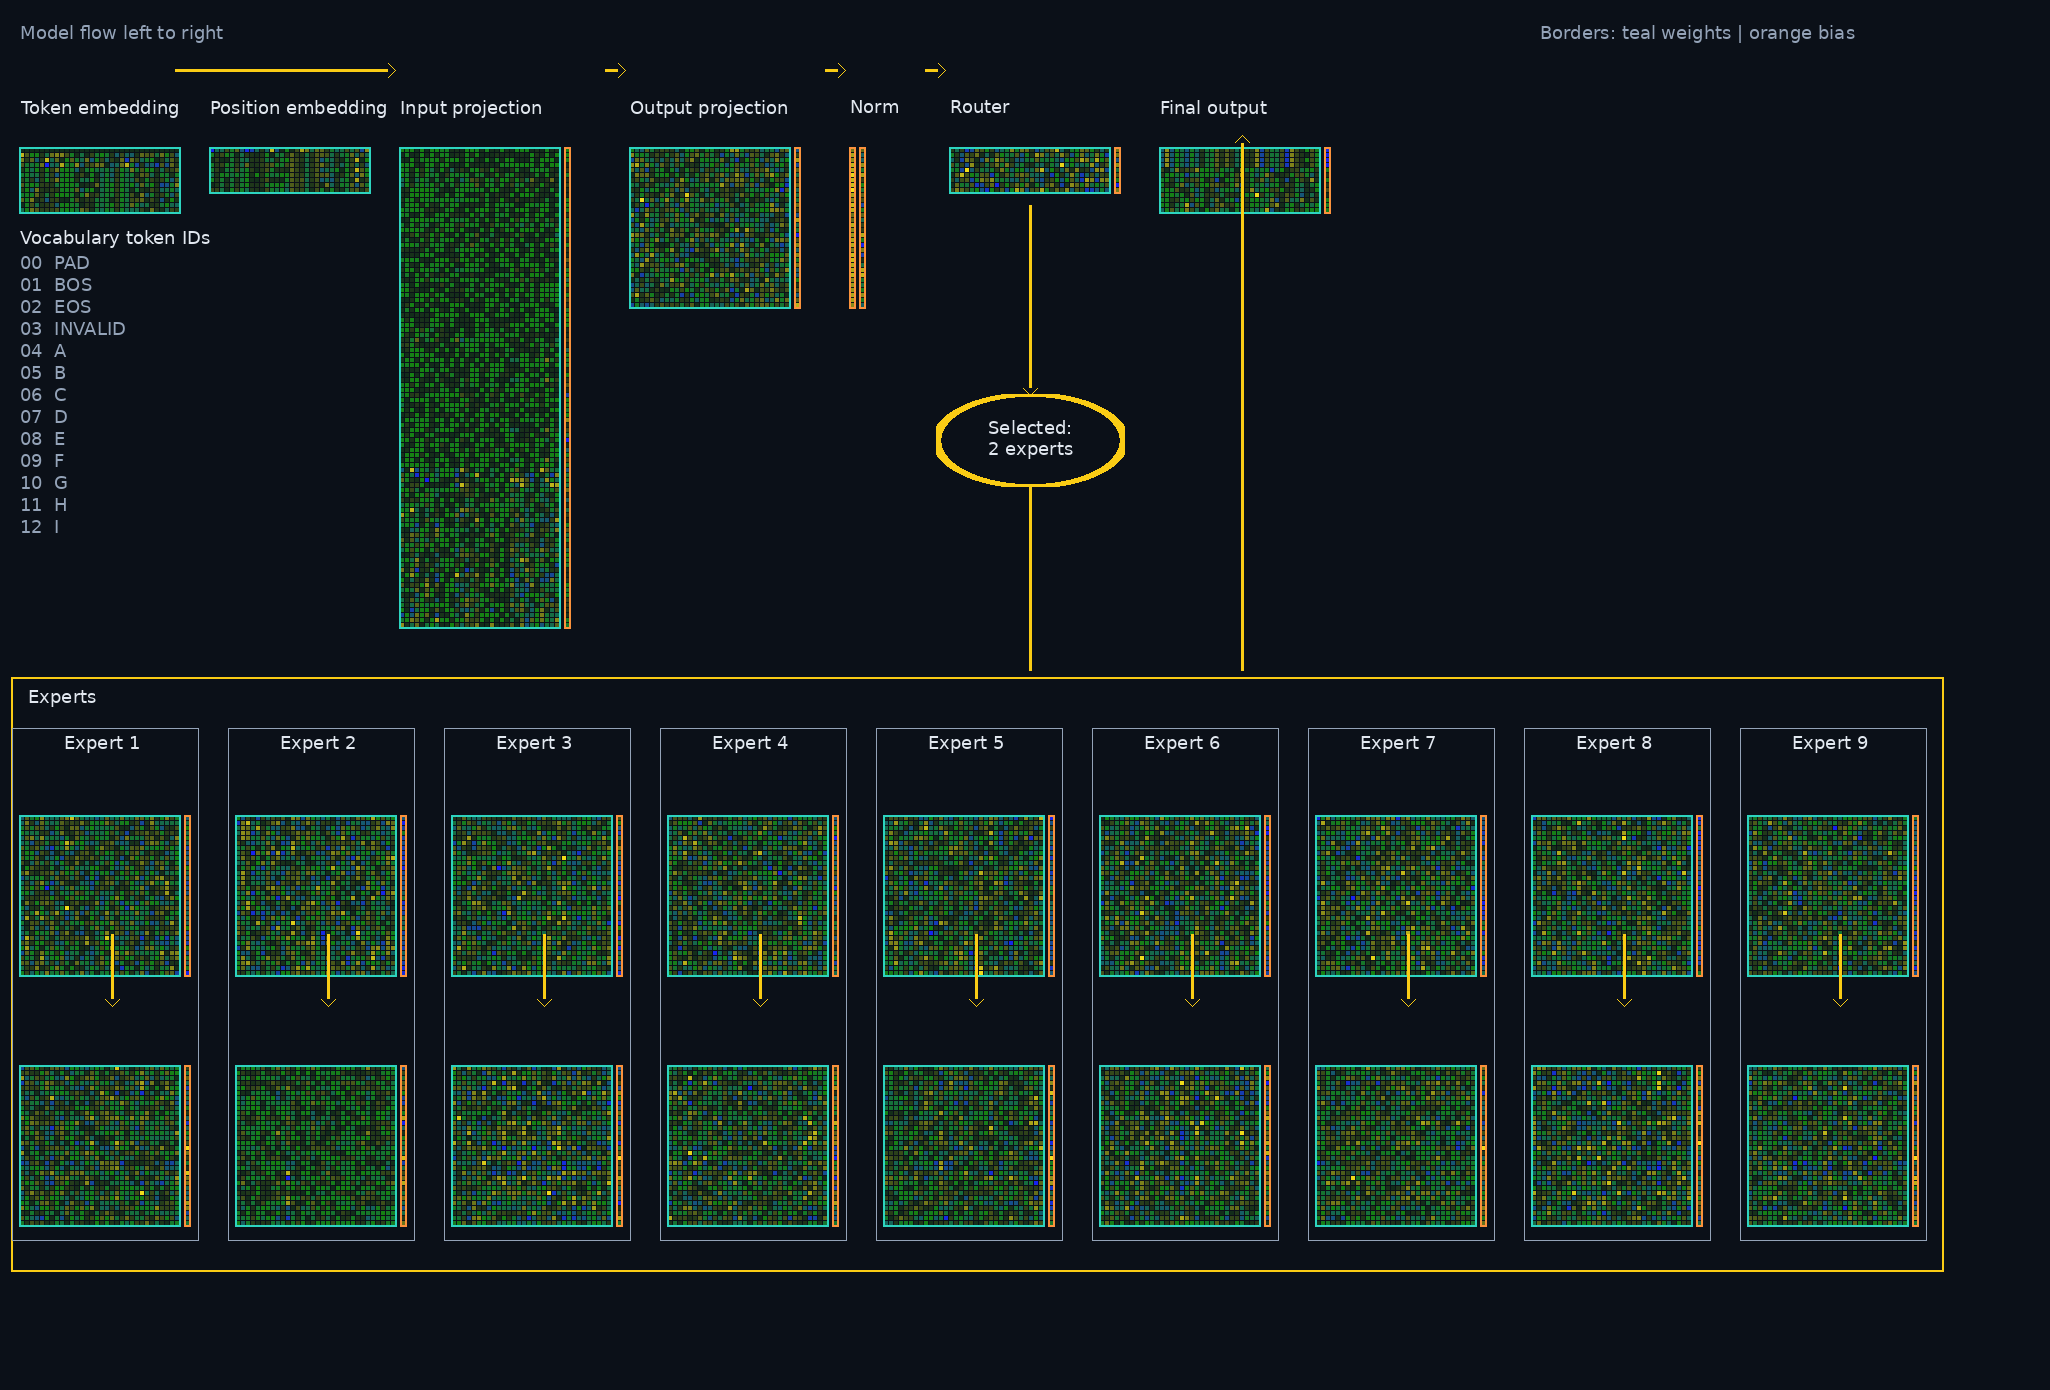
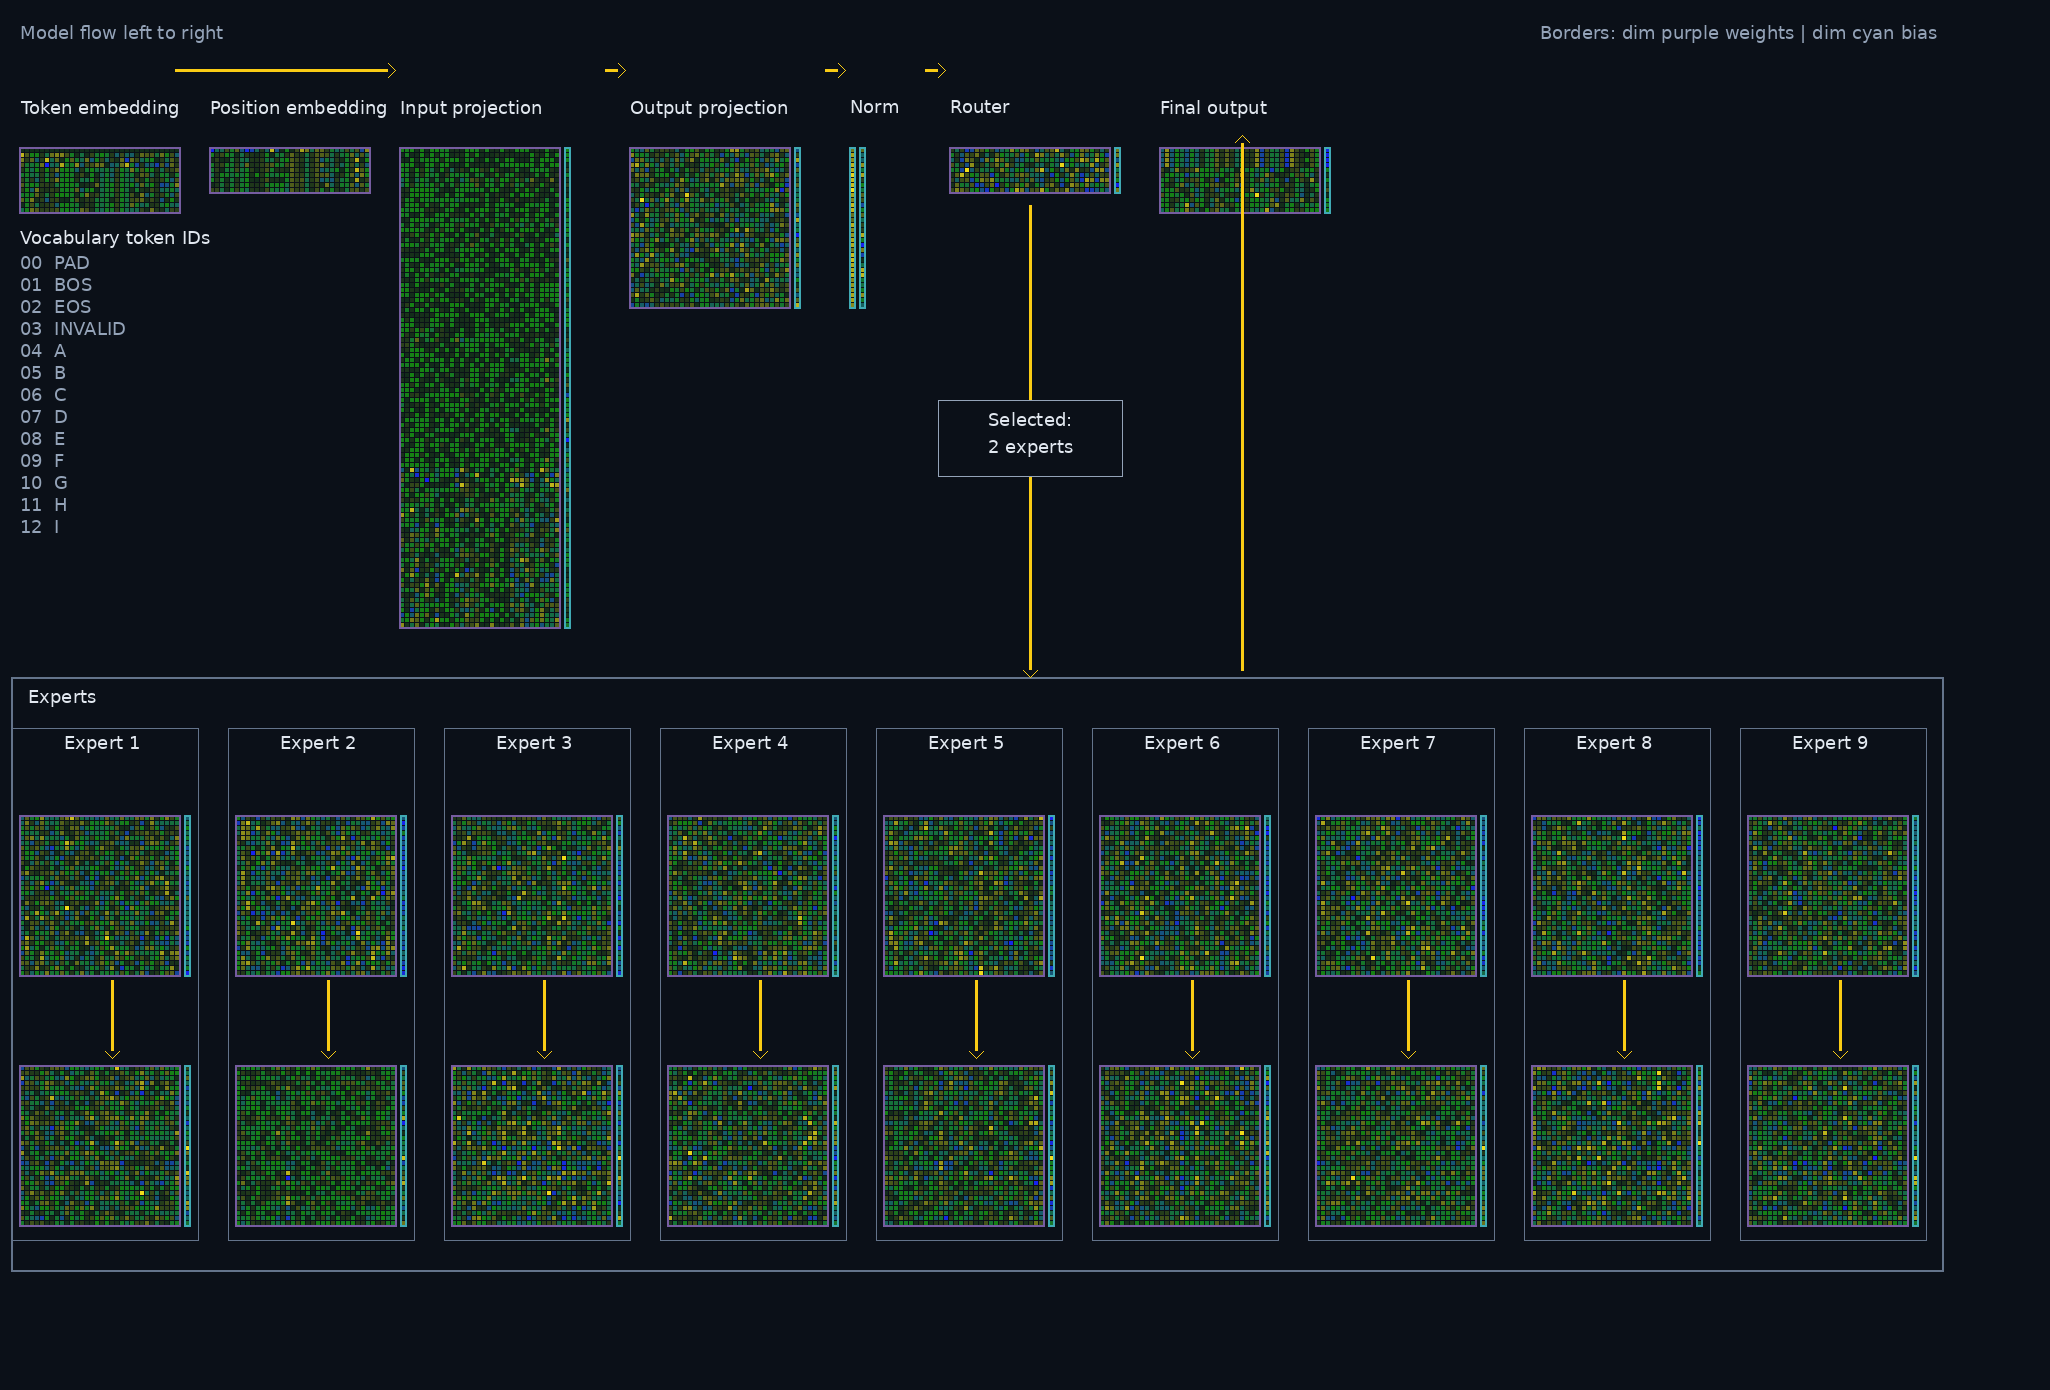
Refine tensor inspector routing and borders

diff --git a/tools/tensor_inspector.py b/tools/tensor_inspector.py
@@ -19,8 +19,9 @@ _TEXT_FONT = ImageFont.truetype("/usr/share/fonts/truetype/dejavu/DejaVuSans.ttf
 _LABEL = (226, 232, 240)
 _MUTED = (148, 163, 184)
 _FLOW = (250, 204, 21)
-_WEIGHT_BORDER = (45, 212, 191)
-_BIAS_BORDER = (251, 146, 60)
+_EXPERT_BORDER = (100, 116, 139)
+_WEIGHT_BORDER = (118, 92, 160)
+_BIAS_BORDER = (64, 170, 180)
 _VOCABULARY = ["<pad>", "<bos>", "<eos>", "!", "a", "b", "c", "d", "e", "f", "g", "h", "i"]
 
 
@@ -64,6 +65,12 @@ def _rectangle(rgb: bytearray, width: int, x: int, y: int, box_width: int, box_h
         for py in range(y - offset, y + box_height + offset + 1):
             _pixel(rgb, width, x - offset, py, color)
             _pixel(rgb, width, x + box_width + offset, py, color)
+
+
+def _fill_rectangle(rgb: bytearray, width: int, x: int, y: int, box_width: int, box_height: int, color: tuple[int, int, int]) -> None:
+    for py in range(y, y + box_height):
+        for px in range(x, x + box_width):
+            _pixel(rgb, width, px, py, color)
 
 
 def _ellipse(rgb: bytearray, width: int, center_x: int, center_y: int, radius_x: int, radius_y: int) -> None:
@@ -175,7 +182,7 @@ def render_checkpoint_inspector(source: Path) -> tuple[bytes, dict[str, object]]
 
     top_y, flow_y = 100, 70
     _text(rgb, width, _MARGIN, 25, "Model flow left to right", _MUTED)
-    _text(rgb, width, 1540, 25, "Borders: teal weights | orange bias", _MUTED)
+    _text(rgb, width, 1540, 25, "Borders: dim purple weights | dim cyan bias", _MUTED)
     _render_single(rgb, width, state, "embedding.weight", "Token embedding", 20, top_y)
     _render_single(rgb, width, state, "position.weight", "Position embedding", 210, top_y)
     _render_pair(rgb, width, state, "attention.in_proj_weight", "attention.in_proj_bias", "Input projection", 400, top_y)
@@ -194,37 +201,41 @@ def render_checkpoint_inspector(source: Path) -> tuple[bytes, dict[str, object]]
     router_center, router_bus_y = 1030, expert_y - 34
     expert_left, expert_right = 12, 1942
     expert_top, expert_bottom = expert_y - 42, 1270
-    _rectangle(rgb, width, expert_left, expert_top, expert_right - expert_left, expert_bottom - expert_top, _FLOW)
+    _rectangle(rgb, width, expert_left, expert_top, expert_right - expert_left, expert_bottom - expert_top, _EXPERT_BORDER)
     _text(rgb, width, expert_left + 16, expert_top + 12, "Experts", _LABEL)
-    _arrow(rgb, width, router_center, 205, router_center, 395)
-    _line(rgb, width, router_center, 485, router_center, expert_top - 8)
-    _ellipse(rgb, width, router_center, 440, 94, 46)
-    _centered_text(rgb, width, router_center, 420, "Selected:", _LABEL)
-    _centered_text(rgb, width, router_center, 442, "2 experts", _LABEL)
+    _arrow(rgb, width, router_center, 205, router_center, expert_top - 1)
+    selection_x, selection_y, selection_width, selection_height = router_center - 92, 400, 184, 76
+    _fill_rectangle(rgb, width, selection_x, selection_y, selection_width, selection_height, (11, 16, 24))
+    _rectangle(rgb, width, selection_x, selection_y, selection_width, selection_height, _MUTED, 1)
+    _centered_text(rgb, width, router_center, 412, "Selected:", _LABEL)
+    _centered_text(rgb, width, router_center, 440, "2 experts", _LABEL)
     for expert in range(9):
         x = _MARGIN + expert * (expert_width + expert_gap)
         box_top, box_bottom = expert_y + 8, expert_y + 520
-        _rectangle(rgb, width, x - 8, box_top, 186, box_bottom - box_top, _MUTED, 1)
+        _rectangle(rgb, width, x - 8, box_top, 186, box_bottom - box_top, _EXPERT_BORDER, 1)
         _centered_text(rgb, width, x + 82, box_top + 8, f"Expert {expert + 1}", _LABEL)
         _render_pair(rgb, width, state, f"experts.{expert}.0.weight", f"experts.{expert}.0.bias", "", x, expert_y + 48)
         _render_pair(rgb, width, state, f"experts.{expert}.2.weight", f"experts.{expert}.2.bias", "", x, expert_y + 298)
-        _arrow(rgb, width, x + 92, expert_y + 214, x + 92, expert_y + 286)
+        _arrow(rgb, width, x + 92, expert_y + 260, x + 92, expert_y + 338)
     # The output panel shares the router's top-row alignment; this return arrow is parallel to router-to-experts.
     output_center = 1242
     _arrow(rgb, width, output_center, expert_top - 8, output_center, 135)
 
     metadata = {
-        "format": "crystal-9-tensor-inspector-v7", "source": source.name,
+        "format": "crystal-9-tensor-inspector-v8", "source": source.name,
         "source_sha256": hashlib.sha256(source.read_bytes()).hexdigest(), "tensor_count": len(state),
-        "normalization": "per-tensor symmetric max-absolute", "layout": "architecture-flow-v7",
+        "normalization": "per-tensor symmetric max-absolute", "layout": "architecture-flow-v8",
         "bias_alignment": "vertical output-row axis", "sections": ["inputs", "attention", "norm_router", "experts", "output"],
         "legend": {"WEIGHTS": "matrix; rows are output features", "BIAS": "bias column; one value per output row", "B": "bias column; one value per output row"},
         "expert_layout": "nine Expert boxes, each containing its first and second layer",
         "calculation_flow": ["embeddings and positions", "attention", "norm and router", "top-2 routed experts", "combined output"],
         "vocabulary": _VOCABULARY, "font": "DejaVu Sans", "router_selection_label": "Selected: 2 experts",
-        "router_selection_lines": ["Selected:", "2 experts"],
+        "router_selection_lines": ["Selected:", "2 experts"], "router_selection_shape": "gray outlined rectangle",
+        "router_path": "continuous downward arrow touching the Experts outline",
         "expert_return_path": "vertical upward arrow, parallel to router-to-experts, ending below Final output",
-        "border_legend": {"teal": "weight matrix", "orange": "bias vector"}, "tensors": inventory, "width": width, "height": height,
+        "intra_expert_arrows": "clear gap between first and second layer matrices",
+        "border_legend": {"dim purple": "weight matrix", "dim cyan": "bias vector"}, "experts_outline": "slate gray",
+        "tensors": inventory, "width": width, "height": height,
     }
     rows = b"".join(b"\0" + rgb[row * width * 3 : (row + 1) * width * 3] for row in range(height))
     png = b"".join((_SIGNATURE, _chunk(b"IHDR", struct.pack(">IIBBBBB", width, height, 8, 2, 0, 0, 0)),

diff --git a/tests/test_tensor_inspector.py b/tests/test_tensor_inspector.py
@@ -15,7 +15,7 @@ def test_checkpoint_inspector_renders_actual_tensor_inventory_as_png():
     assert metadata["tensors"]["attention.in_proj_weight"]["shape"] == [96, 32]
     assert metadata["tensors"]["experts.0.0.weight"]["shape"] == [32, 32]
     assert metadata["normalization"] == "per-tensor symmetric max-absolute"
-    assert metadata["layout"] == "architecture-flow-v7"
+    assert metadata["layout"] == "architecture-flow-v8"
     assert metadata["bias_alignment"] == "vertical output-row axis"
     assert metadata["sections"][-2:] == ["experts", "output"]
     assert metadata["legend"]["B"] == "bias column; one value per output row"
@@ -25,5 +25,9 @@ def test_checkpoint_inspector_renders_actual_tensor_inventory_as_png():
     assert metadata["font"] == "DejaVu Sans"
     assert metadata["router_selection_label"] == "Selected: 2 experts"
     assert metadata["router_selection_lines"] == ["Selected:", "2 experts"]
+    assert metadata["router_selection_shape"] == "gray outlined rectangle"
+    assert metadata["router_path"] == "continuous downward arrow touching the Experts outline"
     assert metadata["expert_return_path"] == "vertical upward arrow, parallel to router-to-experts, ending below Final output"
-    assert metadata["border_legend"] == {"teal": "weight matrix", "orange": "bias vector"}
+    assert metadata["intra_expert_arrows"] == "clear gap between first and second layer matrices"
+    assert metadata["border_legend"] == {"dim purple": "weight matrix", "dim cyan": "bias vector"}
+    assert metadata["experts_outline"] == "slate gray"

diff --git a/tools/export_tensor_inspectors.py b/tools/export_tensor_inspectors.py
@@ -31,7 +31,7 @@ def main() -> None:
             "tensor_count": metadata["tensor_count"], "width": metadata["width"], "height": metadata["height"],
             "normalization": metadata["normalization"], "derived": True,
         })
-    (OUTPUT.parent / "inspectors.json").write_text(json.dumps({"format": "crystal-9-tensor-inspector-v7", "inspectors": inspectors}, indent=2) + "\n")
+    (OUTPUT.parent / "inspectors.json").write_text(json.dumps({"format": "crystal-9-tensor-inspector-v8", "inspectors": inspectors}, indent=2) + "\n")
 
 
 if __name__ == "__main__":
